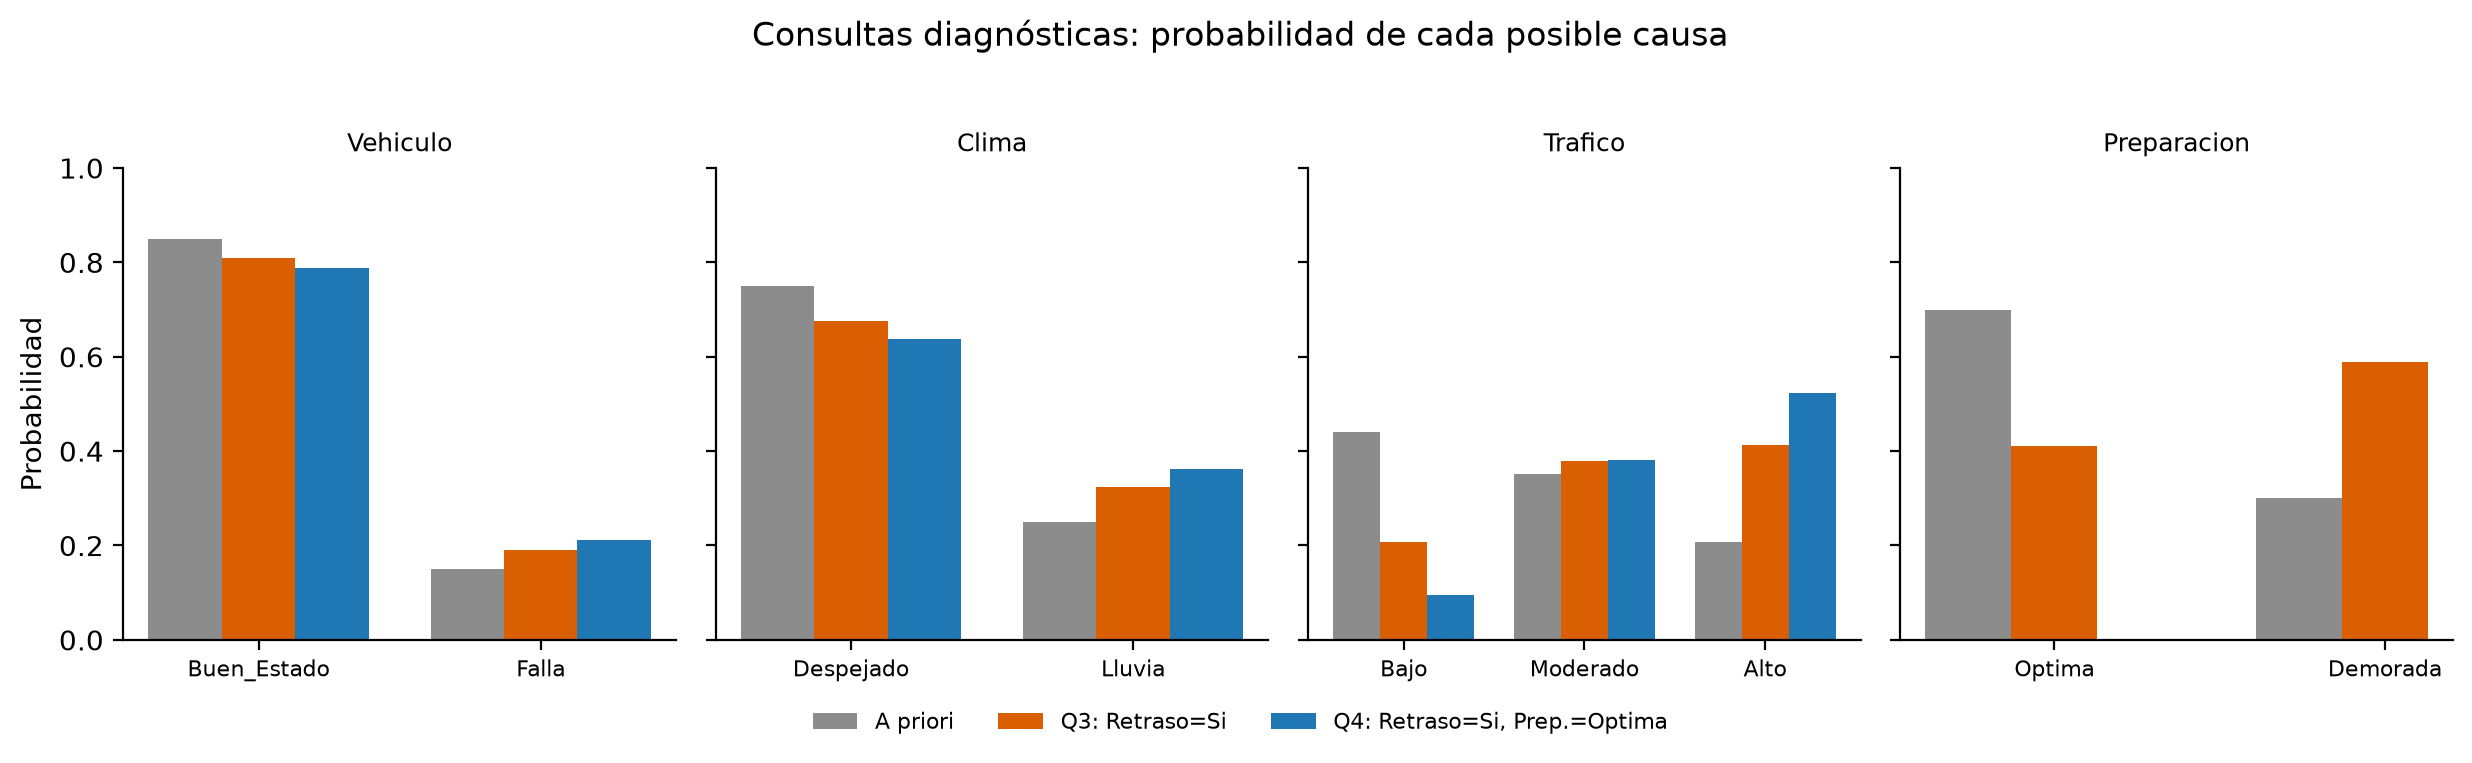
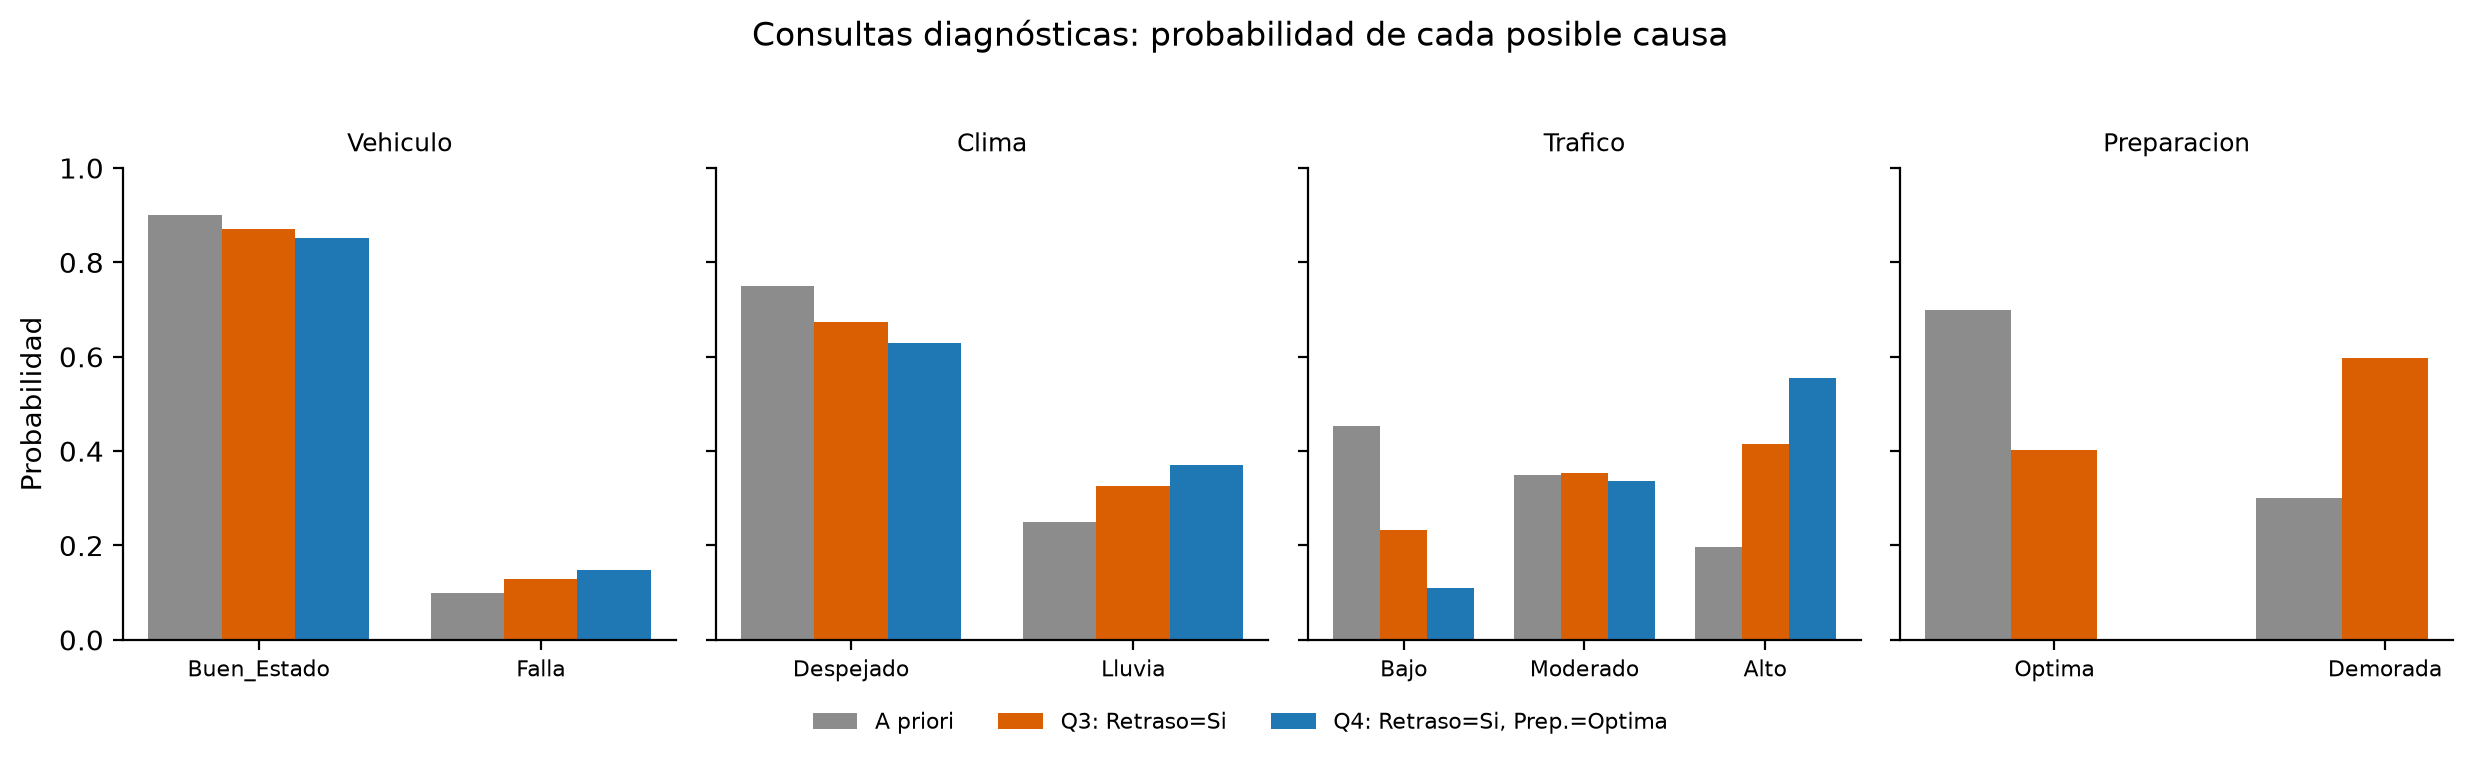
Los cambios que se realizaron fue la concordancia de valores en el código con respecto a el informe planteado.

diff --git a/src/experimentos.py b/src/experimentos.py
@@ -48,10 +48,6 @@ def ejecutar_experimentos():
         }
     RESULT["max_dif_global"] = max_dif_global
 
-    RESULT["Q2_contraste_optima"] = red.marginal(
-        "Retraso", {"Clima": "Despejado", "Vehiculo": "Buen_Estado", "Preparacion": "Optima"}
-    )
-
     ev4 = CONSULTAS["Q4"]["evidencia"]
     conj, _ = red.consulta(["Clima", "Vehiculo"], ev4)
     RESULT["Q4_conjunta_Clima_Vehiculo"] = {f"{k[0]}|{k[1]}": v for k, v in conj.items()}
@@ -61,41 +57,40 @@ def ejecutar_experimentos():
     )
     RESULT["P_retraso_prior"] = red.marginal("Retraso")
 
-    # B. Consulta manual (Q3): P(Vehiculo | Retraso=Si)
+    # B. Consulta manual (Q3): P(Trafico | Retraso=Si)
     P, E = red.cpt, red.estados
-    q_m = {
+    # Paso 1: P(T) = sum_{C,V} P(C) P(V) P(T | C, V)
+    pt = {
+        t: sum(P["Clima"][()][ic] * P["Vehiculo"][()][iv] * P["Trafico"][(c, v)][it]
+               for ic, c in enumerate(E["Clima"]) for iv, v in enumerate(E["Vehiculo"]))
+        for it, t in enumerate(E["Trafico"])
+    }
+    # Paso 2: P(Retraso=Si | T) = sum_P P(P) P(Si | T, P)
+    rt = {
         t: sum(P["Preparacion"][()][ip] * P["Retraso"][(t, pr)][1] for ip, pr in enumerate(E["Preparacion"]))
         for t in E["Trafico"]
     }
-    s_m = {
-        (c, v): sum(P["Trafico"][(c, v)][it] * q_m[t] for it, t in enumerate(E["Trafico"]))
-        for c in E["Clima"] for v in E["Vehiculo"]
-    }
-    h_m = {
-        v: sum(P["Clima"][()][ic] * s_m[(c, v)] for ic, c in enumerate(E["Clima"]))
-        for v in E["Vehiculo"]
-    }
-    conj_manual = {v: P["Vehiculo"][()][iv] * h_m[v] for iv, v in enumerate(E["Vehiculo"])}
+    # Paso 3: conjunta con la evidencia y normalización
+    conj_manual = {t: pt[t] * rt[t] for t in E["Trafico"]}
     z_manual = sum(conj_manual.values())
     RESULT["manual"] = {
-        "q": q_m,
-        "s": {f"{c}|{v}": x for (c, v), x in s_m.items()},
-        "h": h_m,
+        "P_trafico": pt,
+        "P_retraso_dado_T": rt,
         "conjunta": conj_manual,
         "Z": z_manual,
-        "posterior": {v: conj_manual[v] / z_manual for v in conj_manual},
+        "posterior": {t: conj_manual[t] / z_manual for t in conj_manual},
     }
-    post_q3, _ = red.consulta("Vehiculo", {"Retraso": "Si"})
+    post_q3, _ = red.consulta("Trafico", {"Retraso": "Si"})
     RESULT["manual"]["dif_vs_codigo"] = max(
         abs(RESULT["manual"]["posterior"][k[0]] - v) for k, v in post_q3.items()
     )
 
     # C. Análisis de sensibilidad
     sens = {}
-    FILA_S1 = ("Despejado", "Buen_Estado")
-    EV_S1 = {"Clima": "Despejado", "Vehiculo": "Buen_Estado"}
+    FILA_S1 = ("Lluvia", "Falla")
+    EV_S1 = {"Clima": "Lluvia", "Vehiculo": "Falla"}
     s1 = []
-    for a in [0.05, 0.12, 0.25, 0.40, 0.55, 0.70, 0.85]:
+    for a in [0.10, 0.25, 0.40, 0.60, 0.75, 0.90, 0.95]:
         r2 = red.con_parametro("Trafico", FILA_S1, 2, a)
         s1.append({
             "a": a,
@@ -107,7 +102,7 @@ def ejecutar_experimentos():
     sens["S1"] = s1
 
     s2 = []
-    for t in [0.0, 0.10, 0.30, 0.50, 0.70, 0.90]:
+    for t in [0.0, 0.10, 0.20, 0.30, 0.40, 0.50]:
         r2 = red.con_parametro("Preparacion", (), 1, t)
         s2.append({
             "theta": t,
@@ -145,13 +140,11 @@ def ejecutar_experimentos():
 
     # Fig 2: Predictivas
     fig, ax = plt.subplots(figsize=(7.4, 3.9))
-    etq = ["A priori", "Q1: lluvia y\nvehículo con falla", "Q2: vías favorables,\nprep. demorada",
-           "Contraste: vías favorables,\nprep. óptima"]
+    etq = ["A priori", "Q1: lluvia y\nfalla del vehículo", "Q2: condiciones\nfavorables"]
     vals = [RESULT["P_retraso_prior"][1],
             RESULT["consultas"]["Q1"]["marginales_propia"]["Retraso"][1],
-            RESULT["consultas"]["Q2"]["marginales_propia"]["Retraso"][1],
-            RESULT["Q2_contraste_optima"][1]]
-    bars = ax.bar(etq, vals, color=[GRIS, NARANJA, NARANJA, AZUL], width=0.55)
+            RESULT["consultas"]["Q2"]["marginales_propia"]["Retraso"][1]]
+    bars = ax.bar(etq, vals, color=[GRIS, NARANJA, AZUL], width=0.55)
     for b, v in zip(bars, vals):
         ax.text(b.get_x() + b.get_width() / 2, v + 0.015, f"{v:.3f}", ha="center")
     ax.set_ylim(0, 1); ax.set_ylabel("P(Retraso = Si)"); ax.tick_params(axis="x", labelsize=8)
@@ -184,8 +177,8 @@ def ejecutar_experimentos():
     a_vals = [d["a"] for d in s1]
     axes[0].plot(a_vals, [d["P_retraso"] for d in s1], "-o", color=NARANJA, label="P(Retraso=Si)")
     axes[0].plot(a_vals, [d["P_alto_dado_retraso"] for d in s1], "-s", color=AZUL, label="P(Trafico=Alto | Retraso=Si)")
-    axes[0].axvline(0.12, color=GRIS, ls="--", lw=1); axes[0].text(0.13, 0.03, "valor base", color=GRIS, fontsize=8)
-    axes[0].set_xlabel("P(Trafico=Alto | Despejado, Buen_Estado)"); axes[0].set_ylim(0, 1)
+    axes[0].axvline(0.60, color=GRIS, ls="--", lw=1); axes[0].text(0.61, 0.03, "valor base", color=GRIS, fontsize=8)
+    axes[0].set_xlabel("P(Trafico=Alto | Clima=Lluvia, Vehiculo=Falla)"); axes[0].set_ylim(0, 1)
     axes[0].legend(fontsize=7.5, loc="upper left"); axes[0].set_title("S1: parámetro del nodo de tres estados")
 
     t_vals = [d["theta"] for d in s2]

diff --git a/app.py b/app.py
@@ -2,7 +2,7 @@ import itertools
 import json
 import os
 import pandas as pd
-import streamlit as st
+import streamlit as st  # type: ignore[import-not-found]
 from pgmpy.inference import VariableElimination
 
 from src.red_bayesiana import RedBayesiana
@@ -280,7 +280,7 @@ with tab4:
 
     st.image("resultados/fig_diagnosticas.png", caption="Consultas Diagnósticas (Q3 y Q4)", use_container_width=True)
 
-    with st.expander("Ver desarrollo paso a paso de la consulta manual Q3: P(Vehiculo | Retraso=Si)"):
+    with st.expander("Ver desarrollo paso a paso de la consulta manual Q3: P(Trafico | Retraso=Si)"):
         st.json(resultados["manual"])
 
 # ==============================================================================
